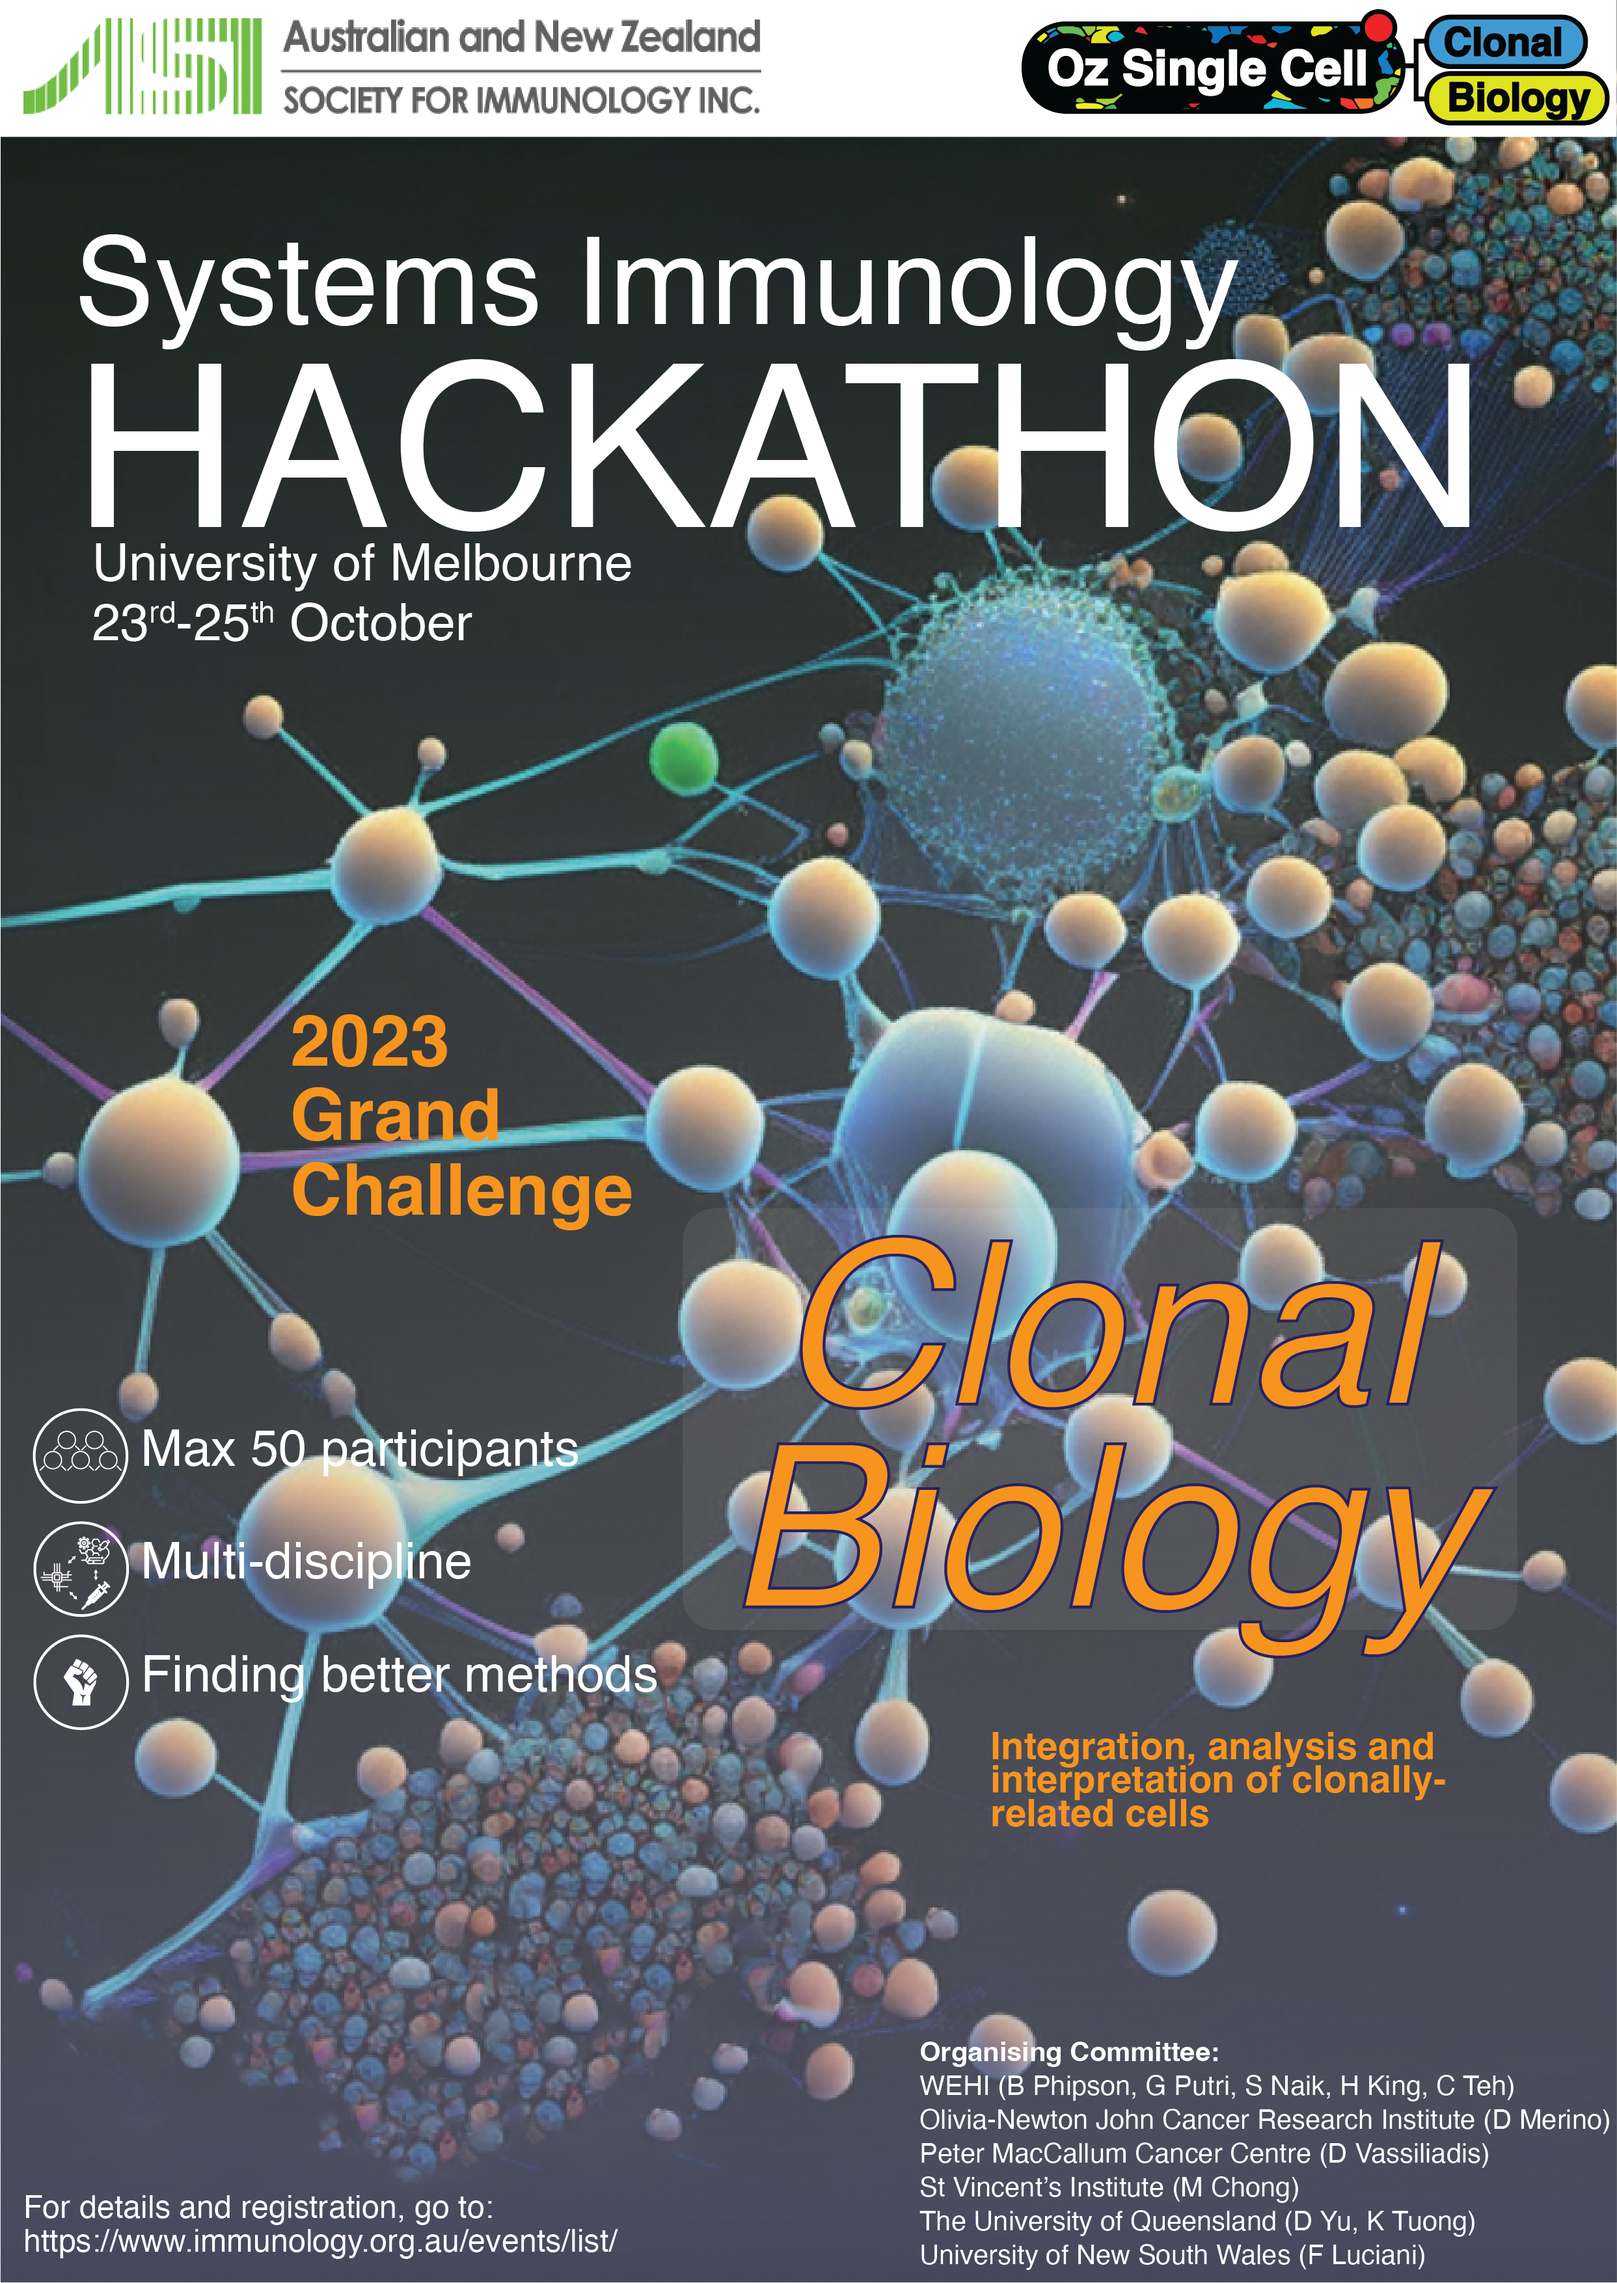
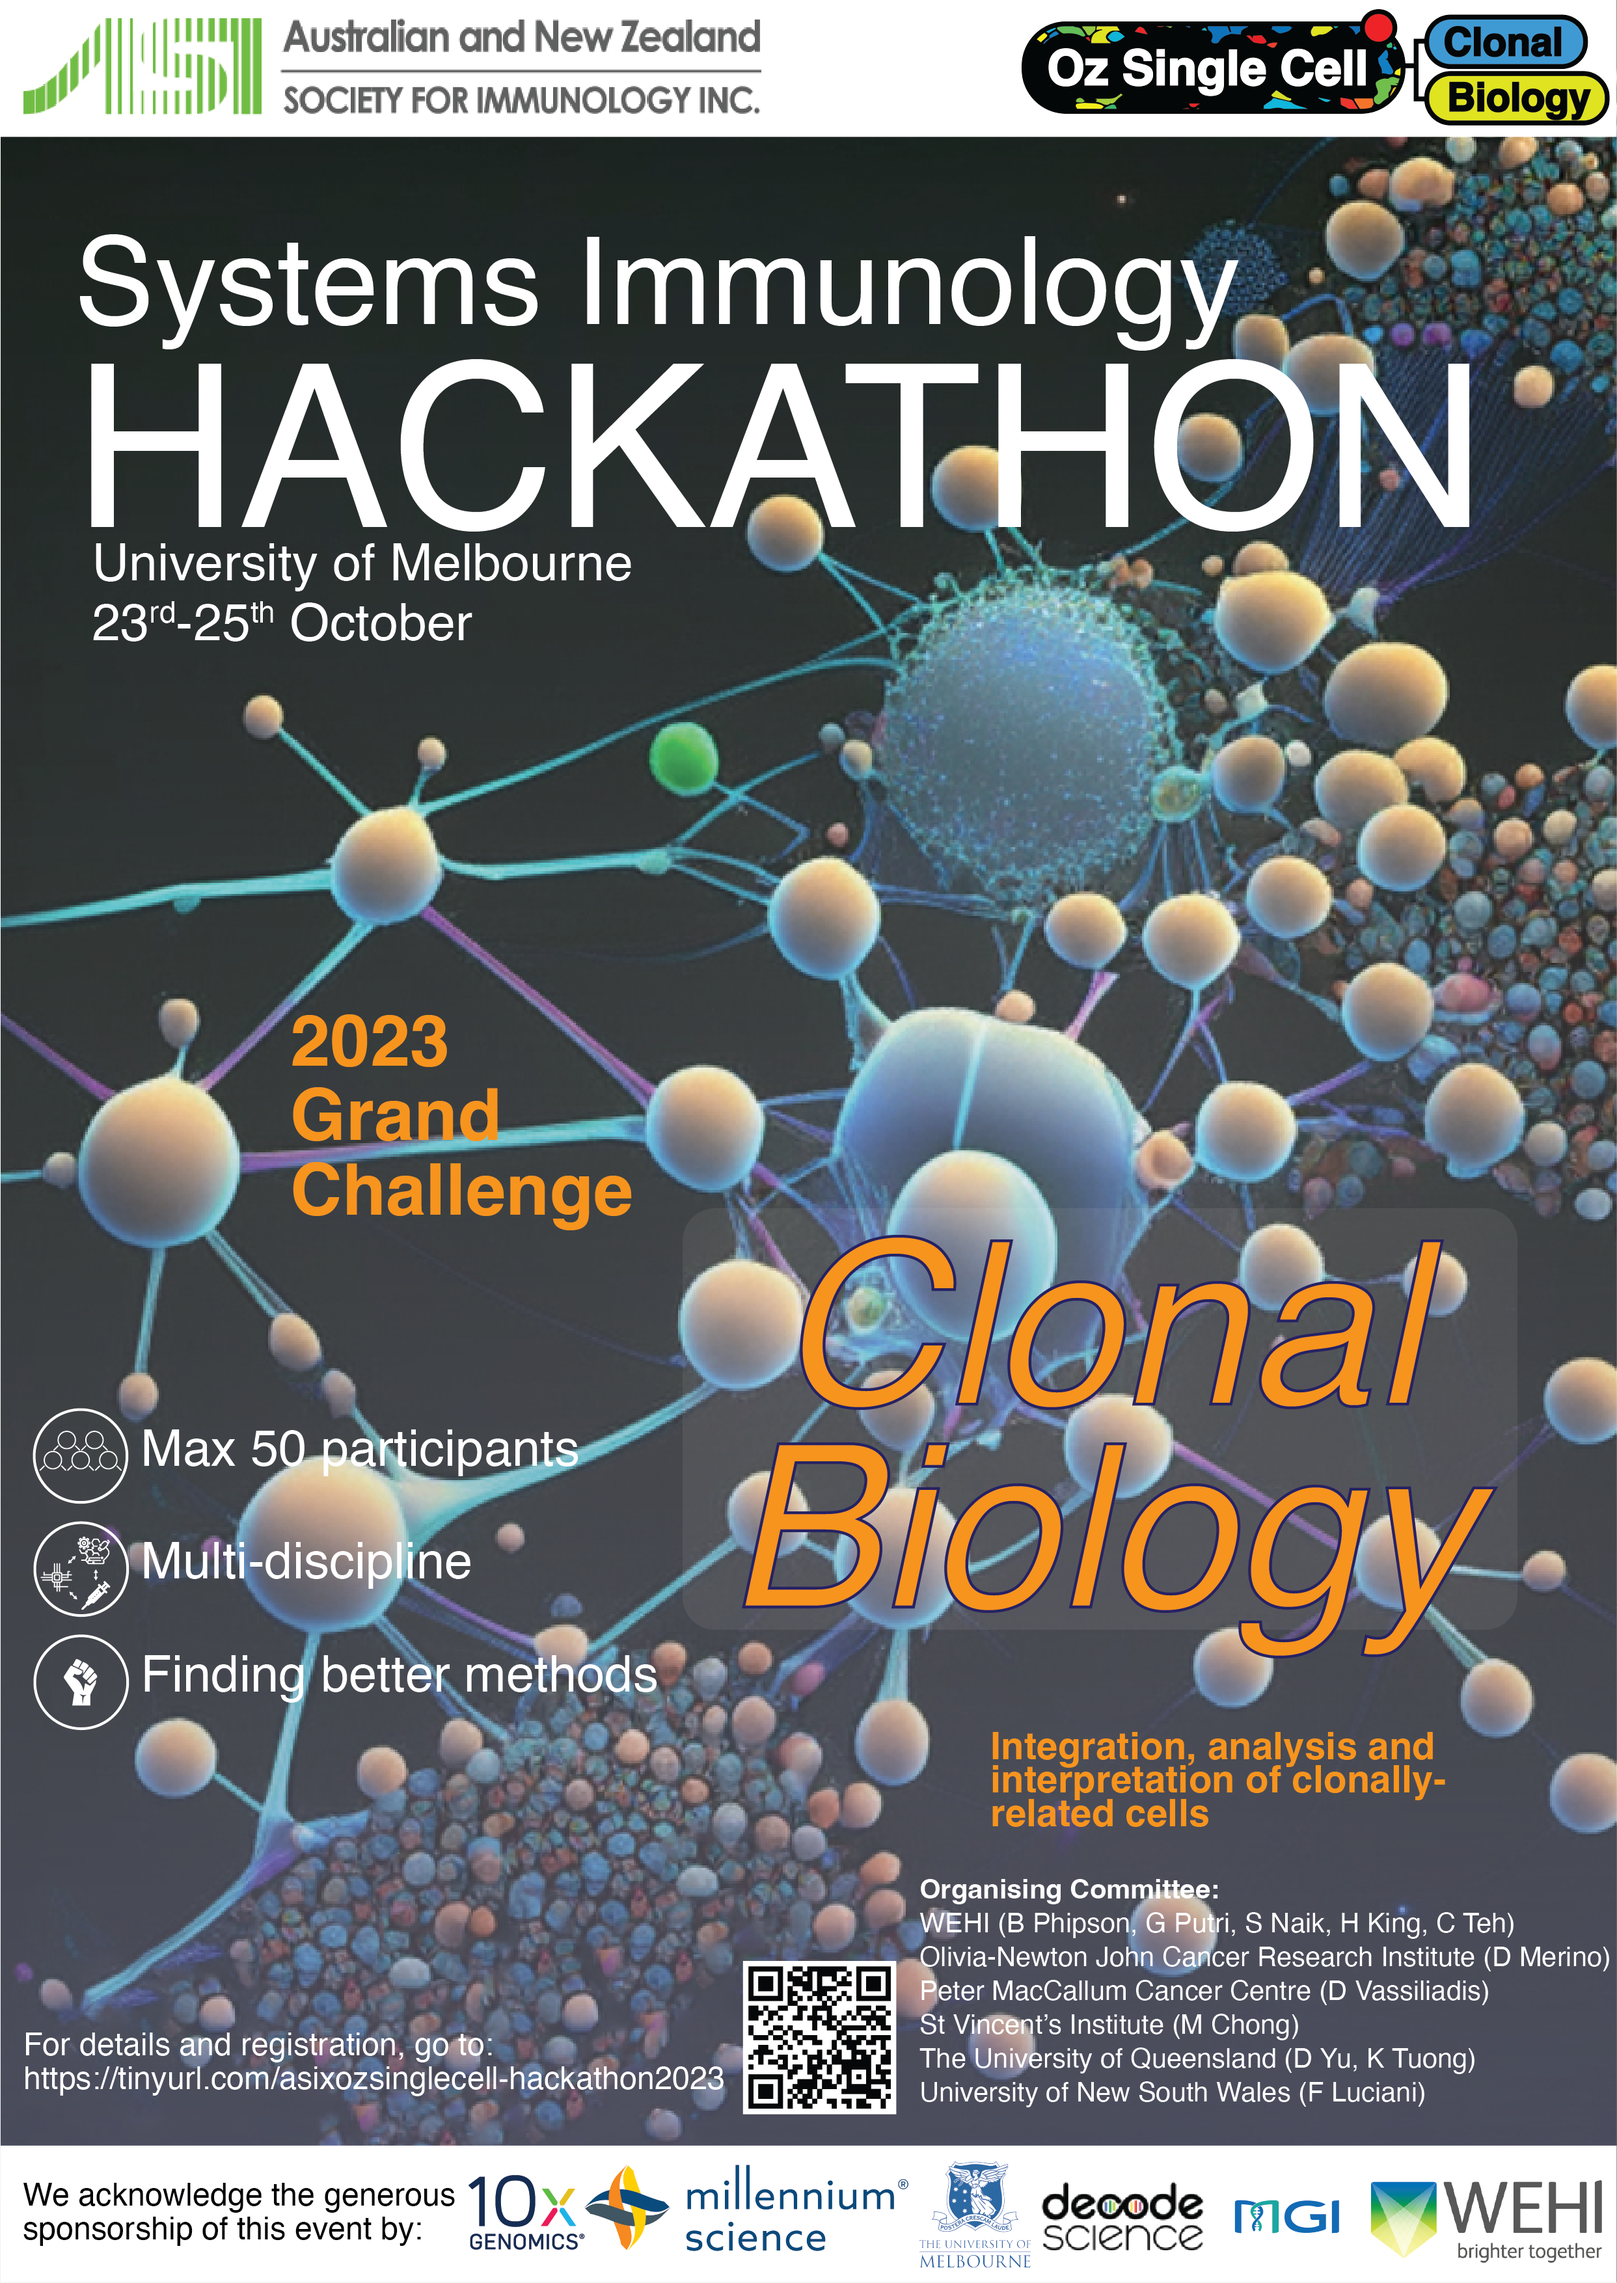
update flyers and sponsors

Changed region(s): [[0.0, 0.8076, 1.0, 1.0]]

diff --git a/content/organiser.md b/content/organiser.md
@@ -3,8 +3,6 @@ title: Organisers
 nav: Organisers
 ---
 
-This Hackathon is brought to you by Australian and New Zealand Society for Immunology (ASI), OzSingleCell, and 10x Genomics
-
 Walter Eliza Hall Medical Institute (WEHI):
 
 * Shalin Naik
@@ -33,3 +31,16 @@ St Vincent's Institute:
 The University of New South Wales:
 
 * Fabio Luciani
+
+# Sponsors
+
+We acknowledge the generous sponsorship of this event by:
+
+* Australian and New Zealand Society for Immunology (ASI)
+* OzSingleCell
+* 10x Genomics
+* Millennium Science
+* The University of Melbourne
+* Decode Science
+* MGI
+* The Walter Eliza Hall Medical Institute Single Cell Facility
